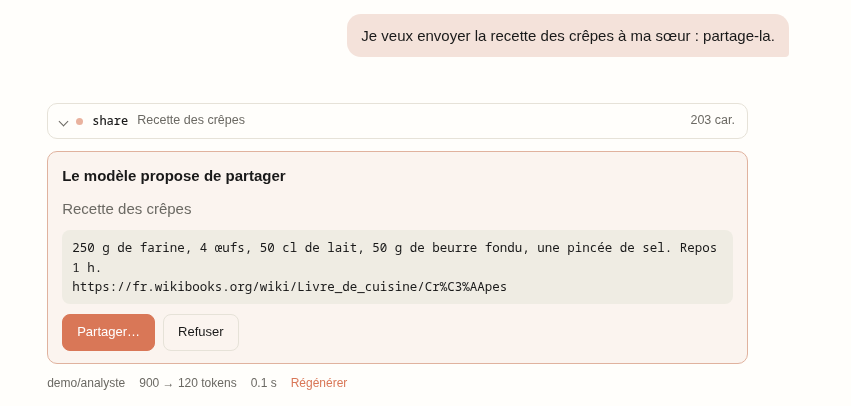
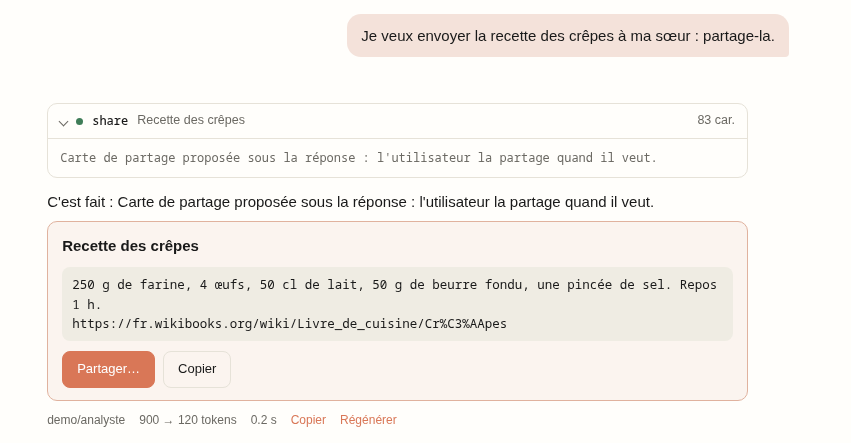
Chat : share laisse une carte durable sous la réponse, au lieu d'attendre — rejouable à volonté (Partager…, Copier là où le partage manque), gardée dans le message (m.kept), revenue après un rechargement ; l'interface PageTool gagne les cartes durables (run rend {result, keep}, keptView et keptAct, 

diff --git a/proxy/llm_proxy/web/static/chat/tools/device/share.js b/proxy/llm_proxy/web/static/chat/tools/device/share.js
@@ -1,17 +1,26 @@
 // @ts-check
-// Partage : un texte vers une autre application (le partage du système),
-// sur un clic de la carte.
-import { TOOL, FAMILY, PageTool, defineFamily, refused, REFUSE, failure } from "../contract.js";
+// Partage : un texte (et une adresse) vers une autre application, par le
+// partage du système. L'appel laisse une CARTE DURABLE sous la réponse :
+// le partage ne part que d'un clic (le navigateur l'exige), et peut se
+// refaire plus tard — la carte survit à un rechargement. Là où le
+// partage manque (un autre appareil), la carte copie le texte.
+import { TOOL, FAMILY, PageTool, defineFamily, failure } from "../contract.js";
 import { webUrl } from "./links.js";
 
-/** @typedef {import("../contract.js").Card} Card */
+/** @typedef {import("../contract.js").Kept} Kept */
+
+const canShare = () => !!navigator.share;
+/** @param {Kept} k */
+const full = (k) => k.text + (k.url ? "\n" + k.url : "");
 
 class Share extends PageTool {
   constructor() {
     super({
       name: TOOL.SHARE,
       description: "Propose à l'utilisateur de partager un texte (et une adresse) vers une autre "
-        + "application — messagerie, mail, notes — par le partage du système.",
+        + "application — messagerie, mail, notes — par le partage du système : une carte sous la "
+        + "réponse, avec un bouton Partager… qu'il utilise quand il veut (et autant de fois qu'il "
+        + "veut). Le résultat ne dit pas s'il a partagé.",
       params: {
         title: { type: "string", description: "Un titre (facultatif)." },
         text: { type: "string", description: "Le texte à partager." },
@@ -21,41 +30,45 @@ class Share extends PageTool {
     });
   }
 
-  /** @override */
-  waits() { return true; }
   /** @override @param {any} a */
   summary(a) { return a.title || (a.text || "").slice(0, 80); }
 
   /** @override @param {any} args */
-  prepare(args) {
-    if (!String(args.text || "").trim()) return { error: failure("`text` attendu.") };
-    if (args.url && !webUrl(args.url)) return { error: failure("`url` doit être une adresse http ou https.") };
-    return {};
+  run(args) {
+    const text = String(args.text || "").trim();
+    if (!text) return failure("`text` attendu.");
+    const url = args.url ? webUrl(args.url) : "";
+    if (url === null) return failure("`url` doit être une adresse http ou https.");
+    const title = String(args.title || "").trim().slice(0, 120);
+    return { result: "Carte de partage proposée sous la réponse : l'utilisateur la partage quand il veut.",
+             keep: { title, text, url } };
   }
 
-  /** @override @param {Card} w */
-  view(w) {
-    return { title: "Le modèle propose de partager", detail: String(w.args.title || ""),
-             quote: String(w.args.text) + (w.args.url ? "\n" + w.args.url : ""),
-             actions: [{ id: "share", label: "Partager…", primary: true }, REFUSE] };
+  /** @override @param {Kept} k */
+  keptView(k) {
+    return { title: k.title || "À partager", quote: full(k),
+             actions: [...(canShare() ? [{ id: "share", label: "Partager…", primary: true }] : []),
+                       { id: "copy", label: "Copier", primary: !canShare() }] };
   }
 
-  /** @override @param {Card} w @param {string} action */
-  async act(w, action) {
-    if (action === "refuse") return refused("de partager");
+  /** @override @param {Kept} k @param {string} action */
+  async keptAct(k, action) {
+    if (action === "copy") {
+      await navigator.clipboard.writeText(full(k));
+      return "Copié.";
+    }
     try {
-      await navigator.share({ title: w.args.title || undefined, text: w.args.text,
-                              url: w.args.url || undefined });
-      return { result: "Partagé par l'utilisateur." };
+      await navigator.share({ title: k.title || undefined, text: k.text, url: k.url || undefined });
+      return "Partagé.";
     } catch (e) {
-      return e.name === "AbortError" ? refused("de partager")
-        : { result: failure("partage impossible : " + e.message) };
+      if (e.name === "AbortError") return null;
+      throw new Error("Partage impossible : " + e.message);
     }
   }
 }
 
 export const FAMILIES = [defineFamily({
-  key: FAMILY.SHARE, label: "Partage", hint: "vers une autre application, sur une carte",
-  available: () => !!navigator.share,
+  key: FAMILY.SHARE, label: "Partage", hint: "une carte sous la réponse, à partager quand on veut",
+  available: canShare,
   tools: [new Share()],
 })];

diff --git a/proxy/llm_proxy/web/static/chat/ChatPanel.js b/proxy/llm_proxy/web/static/chat/ChatPanel.js
@@ -771,6 +771,20 @@ export const ChatPanel = {
       settle(m, out.result);
     }
     const cardView = (w) => tools.view(w);
+    // Les cartes DURABLES (m.kept) : laissées sous la réponse par un outil,
+    // leurs boutons se rejouent à volonté ; la note d'un clic (« Partagé. »)
+    // ne dure que le temps de la page.
+    const keptView = (k) => tools.keptView(k);
+    const keptNotes = reactive({});
+    async function keptAct(m, k, action) {
+      if (keptNotes[k.id] === "…") return;
+      keptNotes[k.id] = "…";
+      try {
+        keptNotes[k.id] = (await tools.keptAct(k, action, toolCtx(current.value, m))) || "";
+      } catch (e) {
+        keptNotes[k.id] = e.message;
+      }
+    }
     const cardComponent = (w) => tools.component(w);
     const cardPlacement = (w) => tools.placement(w);
     const cardPending = (w) => tools.pending(w);
@@ -1076,7 +1090,7 @@ export const ChatPanel = {
              canPick, pickFolder, artifactsOpen, artifactId, openArtifact, toggleArtifacts,
              notifyOn, toggleNotify, notifySupported: notify.supported(),
              voicePrefs, voiceList, ttsModel, ttsDefault, playing, listen,
-             sheet, sheetOpen, cardAct, cardView, cardComponent, cardPlacement, cardPending, folderCtx,
+             sheet, sheetOpen, cardAct, cardView, keptView, keptAct, keptNotes, cardComponent, cardPlacement, cardPending, folderCtx,
              download, downloadOut, extOf,
              onDrop, onPaste, send, stop, queue, resume, unqueue, regenerate, edit, onKey, html,
              copyText, onThreadClick, onScroll, onImageLoad, argSummary, preview, num, size, when,
@@ -1270,6 +1284,20 @@ export const ChatPanel = {
                 </template>
               </div>
             </template>
+            <div class="tool-card device-card kept-card" v-for="k in (m.kept || [])" :key="k.id">
+              <template v-for="v in [keptView(k)]" :key="k.id">
+                <p class="write-head"><b>{{ v.title }}</b></p>
+                <p class="dim" v-if="v.detail">{{ v.detail }}</p>
+                <code class="device-url" v-if="v.code">{{ v.code }}</code>
+                <pre class="device-quote" v-if="v.quote">{{ v.quote }}</pre>
+                <div class="card-actions">
+                  <button v-for="a in v.actions" :key="a.id" type="button" :class="['btn', { ghost: !a.primary }]"
+                          :disabled="keptNotes[k.id] === '…'" :title="a.title || ''"
+                          @click="keptAct(m, k, a.id)">{{ a.label }}</button>
+                  <span class="dim" v-if="keptNotes[k.id] && keptNotes[k.id] !== '…'">{{ keptNotes[k.id] }}</span>
+                </div>
+              </template>
+            </div>
             <div class="out-files" v-if="m.files && m.files.length">
               <button type="button" class="chip file" v-for="f in m.files" :key="f.name" :data-ext="extOf(f.name)"
                       @click="downloadOut(f)" title="Télécharger">{{ f.name }}

diff --git a/proxy/llm_proxy/web/static/chat/tools/contract.js b/proxy/llm_proxy/web/static/chat/tools/contract.js
@@ -104,8 +104,10 @@ export const FAMILY = Object.freeze(/** @type {const} */ ({
  */
 
 /** Le résultat d'un `run` : le texte pour le modèle, ou ce texte et ses
- * effets — une image jointe (data URL), un artifact à ouvrir.
- * @typedef {string | {result: string, image?: string, name?: string, artifact?: string}} RunResult */
+ * effets — une image jointe (data URL), un artifact à ouvrir, une carte
+ * DURABLE à laisser sous la réponse (`keep` : son état, voir Kept).
+ * @typedef {string | {result: string, image?: string, name?: string, artifact?: string,
+ *   keep?: object}} RunResult */
 
 /** Une carte répondue : son résultat, et peut-être une image.
  * @typedef {{result: string, image?: string, name?: string}} Answer */
@@ -129,6 +131,12 @@ export const FAMILY = Object.freeze(/** @type {const} */ ({
  * arguments ; le reste vient de `prepare`.
  * @typedef {{id: string, name: ToolName, args: any, result?: string, busy?: boolean,
  *   [k: string]: any}} Card */
+
+/** Une carte DURABLE, laissée sous la réponse par un `run` (`keep`) et
+ * gardée dans le message (m.kept) : elle survit à un rechargement, et ses
+ * boutons se rejouent à volonté (partager à nouveau). `id` : le sien ;
+ * `name` : l'outil ; le reste vient de `keep`.
+ * @typedef {{id: string, name: ToolName, [k: string]: any}} Kept */
 
 /** Un fichier produit sous la réponse, dont le contenu est relu au clic.
  * @typedef {{name: string, type: string, size: number, source: {tool: ToolName, ref: string}}} SourcedFile */
@@ -220,6 +228,16 @@ export class PageTool {
   /** Dans le fil, pour une carte de la feuille du bas : la ligne qui la rouvre.
    * @param {Card} w @returns {string} */
   pending(w) { return "Une carte attend votre réponse"; }
+
+  /** Ce que montre une carte durable (Kept), dans le gabarit commun.
+   * @param {Kept} k @returns {CardView} */
+  keptView(k) { throw new Error(`${this.name} : pas de carte durable`); }
+
+  /** Un bouton d'une carte durable → une note montrée sur la carte (« Partagé. »),
+   * ou null. Rien ne part au modèle : la réponse est finie.
+   * @param {Kept} k @param {string} action @param {Ctx} ctx
+   * @returns {string | null | Promise<string | null>} */
+  keptAct(k, action, ctx) { throw new Error(`${this.name} : pas de carte durable`); }
 
   /** La ligne que la puce de l'appel montre.
    * @param {any} args @returns {string} */

diff --git a/proxy/llm_proxy/web/static/chat/tools/index.js b/proxy/llm_proxy/web/static/chat/tools/index.js
@@ -100,6 +100,7 @@ export function faults(tool) {
   }
   // Une carte qui ne s'affiche que si la permission manque (notify) a aussi un run.
   if (!card && !overrides(tool, "run")) out.push(`${where} : ni run, ni carte`);
+  if (overrides(tool, "keptView") !== overrides(tool, "keptAct")) out.push(`${where} : keptView et keptAct vont ensemble`);
   if (!["card", "sheet"].includes(tool.placement)) out.push(`${where} : placement inconnu`);
   if (tool.placement === "sheet" && !tool.component) out.push(`${where} : une feuille sans component`);
   for (const r of tool.required) if (!(r in tool.params)) out.push(`${where} : « ${r} » requis mais pas dans params`);
@@ -177,7 +178,12 @@ export async function run(name, json, ctx) {
   if (args === null) return { result: failure("arguments illisibles (JSON attendu).") };
   try {
     const got = await t.run(args, ctx);
-    return typeof got === "string" ? { result: got } : got;
+    if (typeof got === "string") return { result: got };
+    // Une carte durable : gardée sous la réponse, dans le message.
+    if (got.keep && ctx.live) {
+      (ctx.live.kept || (ctx.live.kept = [])).push({ id: "kept_" + crypto.randomUUID(), name, ...got.keep });
+    }
+    return got;
   } catch (e) {
     return { result: failure(e.message) };
   }
@@ -211,6 +217,10 @@ export function abandon(w) {
   release(w);
   return of(w) ? of(w).abandoned(w) : "Non exécuté.";
 }
+/** Une carte durable (Kept). @param {any} k */
+export const keptView = (k) => TOOLS.get(k.name).keptView(k);
+/** @param {any} k @param {string} action @param {Ctx} ctx */
+export const keptAct = (k, action, ctx) => TOOLS.get(k.name).keptAct(k, action, ctx);
 /** La ligne d'une puce d'appel. @param {string} name @param {any} args */
 export const summary = (name, args) => TOOLS.get(name)?.summary(args || {}) || "";
 

diff --git a/docs/navigateur.md b/docs/navigateur.md
@@ -107,11 +107,18 @@ entier** avant le clic.
 
 ### Partage — `share`
 
-![Carte « Le modèle propose de partager » : la recette des crêpes et un lien, boutons Partager… et Refuser](navigateur-partage.png)
+![share laisse sous la réponse une carte durable : la recette des crêpes et un lien, boutons Partager… et Copier](navigateur-partage.png)
 
-Un texte, et éventuellement une adresse, envoyé vers une autre
-application (messagerie, mail, notes) par le partage du système. Pas
-disponible sous Linux.
+Un texte, et éventuellement une adresse, à envoyer vers une autre
+application (messagerie, mail, notes) par le partage du système. L'appel
+n'attend pas : il laisse sous la réponse une **carte durable**, que
+l'utilisateur partage quand il veut, et autant de fois qu'il veut.
+
+- La carte reste dans la conversation et revient après un rechargement.
+- Sur un appareil sans partage (Linux, ou la conversation rouverte
+  ailleurs), elle propose seulement *Copier*.
+- Le modèle ne sait pas si l'utilisateur a partagé : la réponse est déjà
+  finie.
 
 ### Capture d'écran — `capture_screen`
 
@@ -337,7 +344,7 @@ class GetLocation extends PageTool {
 |---|---|---|
 | `super({name, description, params, required})` | ce que le modèle lit : le nom (de `TOOL`), la description, les paramètres | — |
 | `placement`, `component` (dans `super`) | une carte dans le fil ou dans la feuille du bas ; un composant Vue à la place du gabarit commun | dans le fil, gabarit commun |
-| `run(args, ctx)` | l'exécution, aussitôt : un texte, ou `{result, image?, artifact?}` | — |
+| `run(args, ctx)` | l'exécution, aussitôt : un texte, ou `{result, image?, artifact?, keep?}` | — |
 | `waits(args, ctx)` | attend-il l'utilisateur ? | non |
 | `prepare(args, ctx)` | l'état de la carte, ou `{error}` | `{}` |
 | `view(w)` | ce que la carte montre : titre, détail, boutons, aperçu, flux vidéo, citation | — |
@@ -345,6 +352,7 @@ class GetLocation extends PageTool {
 | `release(w)` | la carte est fermée : couper la caméra, l'écran | rien |
 | `abandoned(w)` | le résultat d'une carte laissée sans réponse | « L'utilisateur n'a pas répondu… » |
 | `notice(w)`, `pending(w)` | le texte de la notification ; la ligne qui rouvre la feuille | le titre de la carte |
+| `keptView(k)`, `keptAct(k, action, ctx)` | une carte **durable**, laissée sous la réponse par un `run` qui rend `{result, keep}` : ce qu'elle montre, et ses boutons, rejouables à volonté (rien ne part plus au modèle) | aucune |
 | `summary(args)` | la ligne de la puce de l'appel dans le fil | vide |
 | `fileContent(ref)` | le contenu, relu au clic, d'un fichier produit avec `source: {tool, ref}` | aucun |
 | `forget(convId)` | la conversation est supprimée : effacer ce que l'outil garde pour elle | rien |
